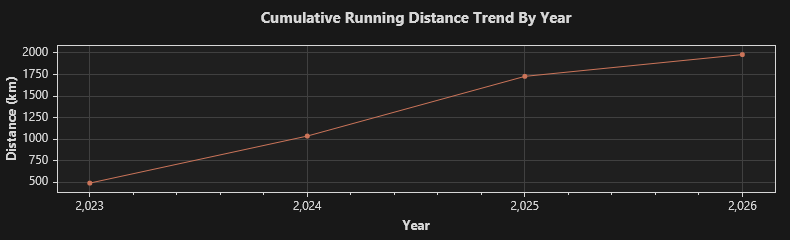
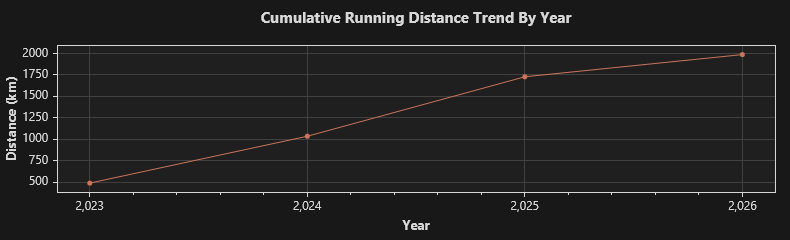
2026/5/31 跑步 6.11 公里

diff --git a/trend.md b/trend.md
@@ -1,4 +1,4 @@
-### Total: 338 days, 1981.25 km.
+### Total: 339 days, 1987.36 km.
 
 
 ![Monthly](https://github.com/prime167/MyRunningLog/blob/main/data/CumulativeTrendByMonth.png)